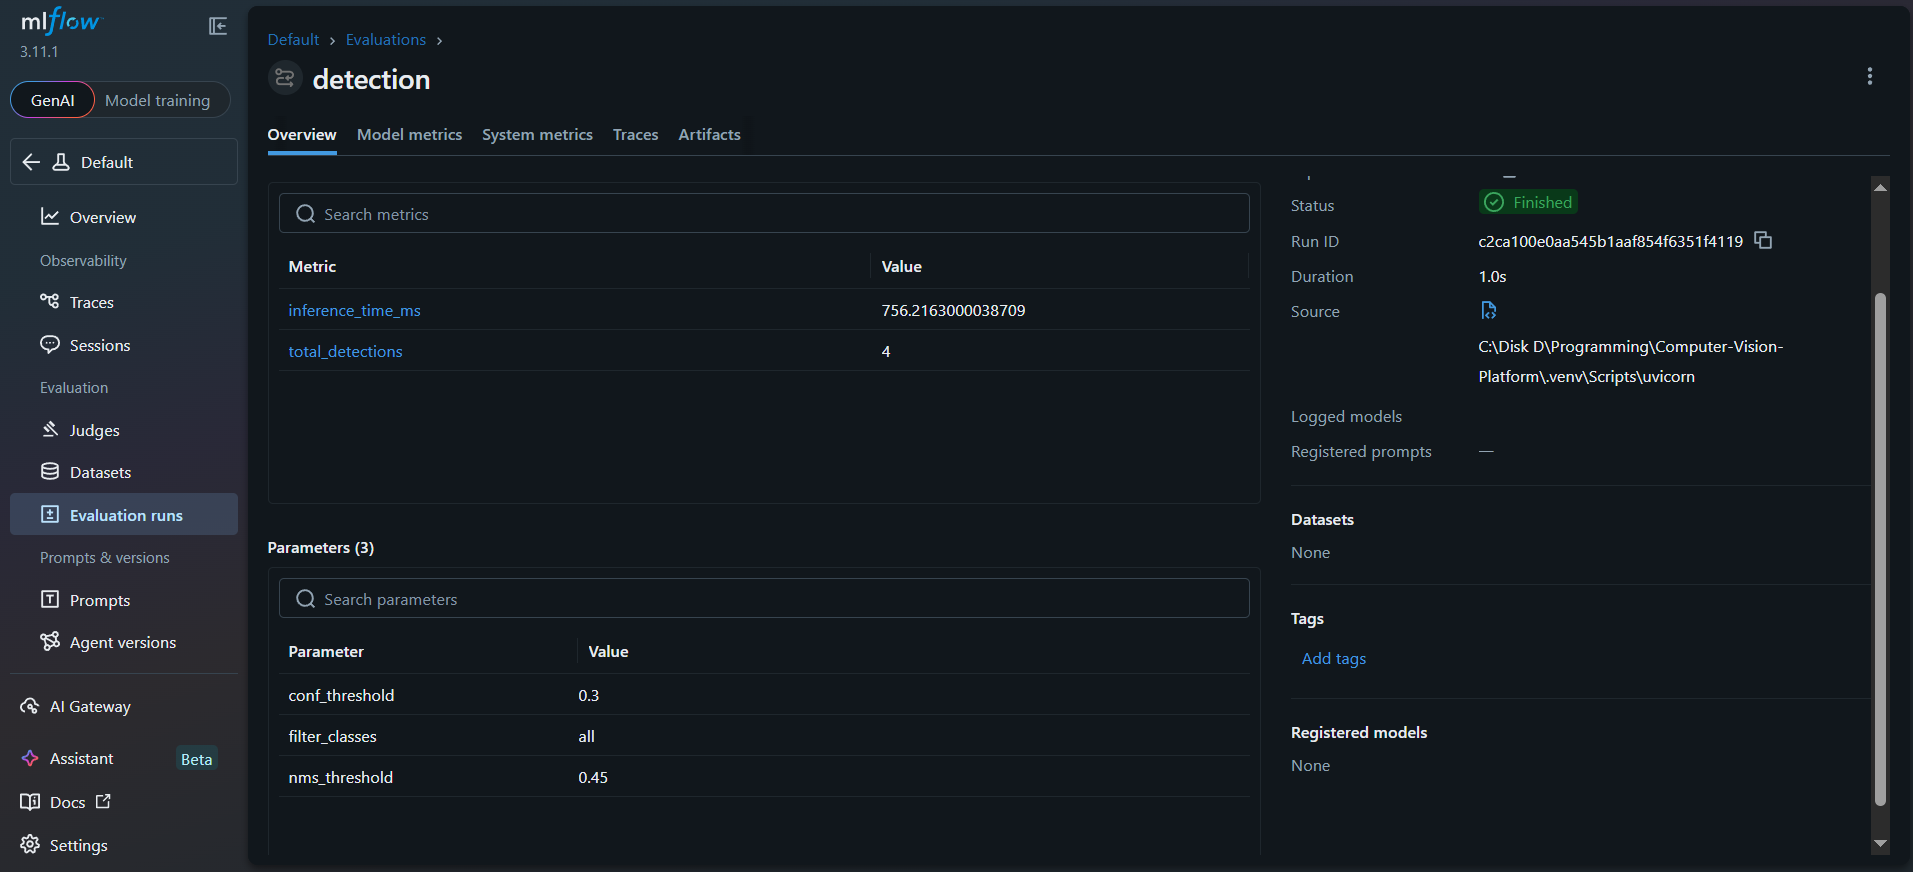
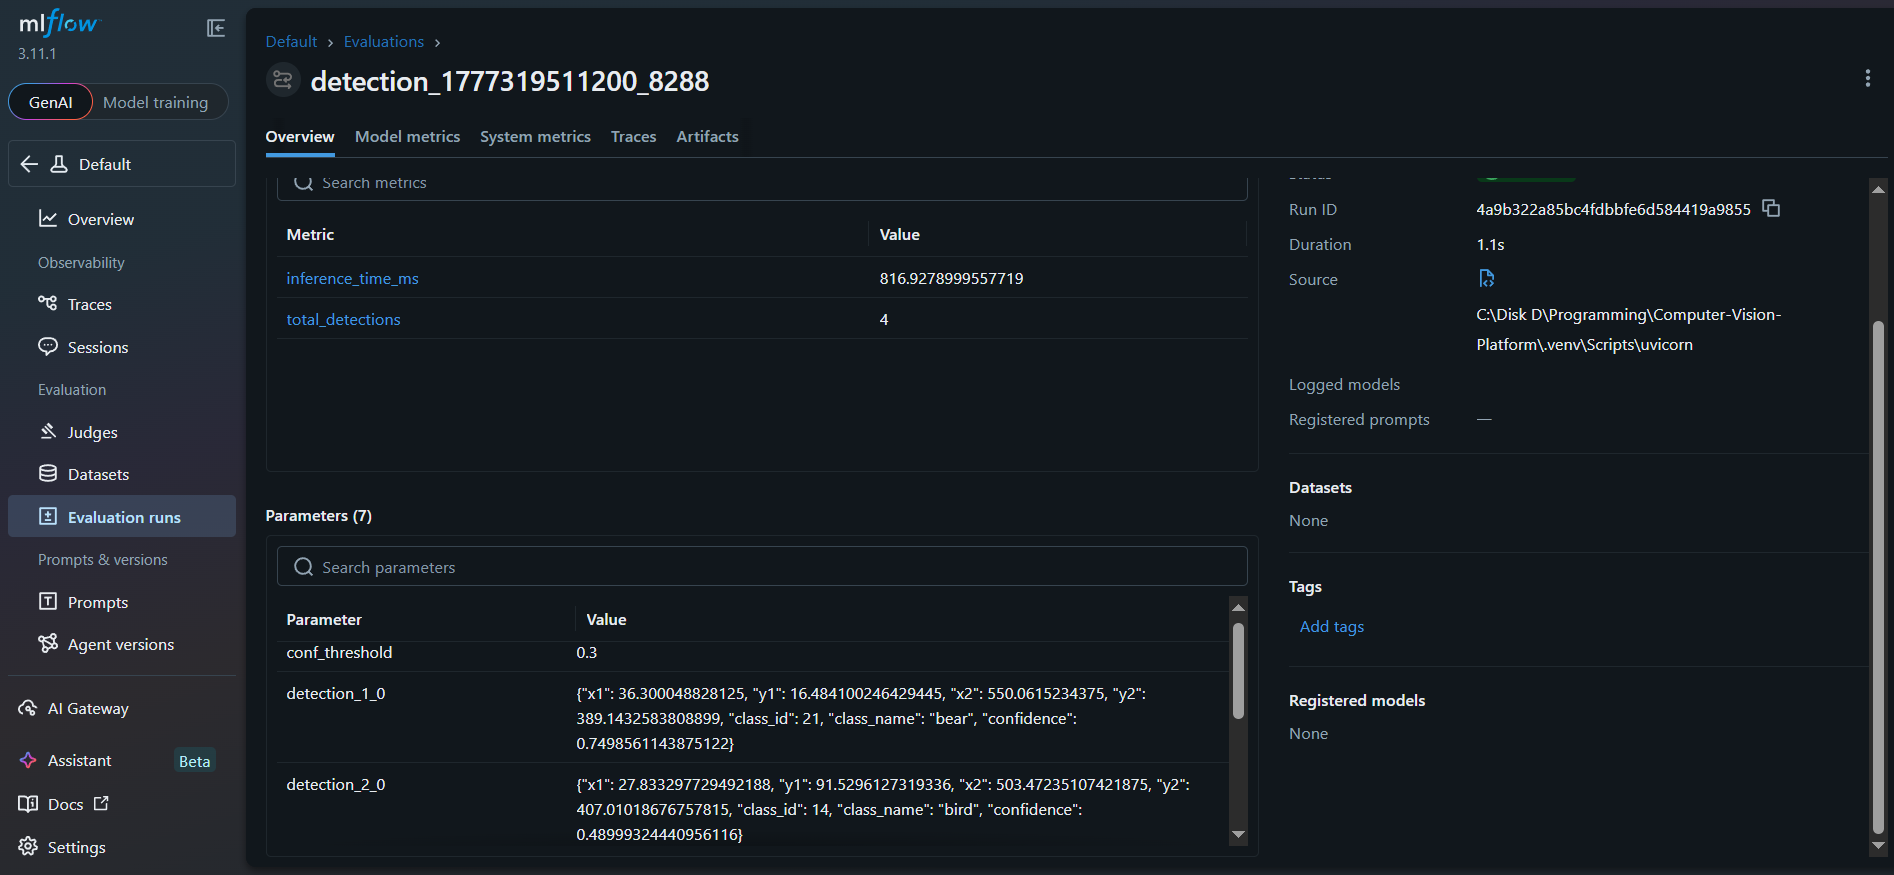
make history table containing detections bounding boxes

diff --git a/templates/history.html b/templates/history.html
@@ -11,35 +11,40 @@
         <a href="/" class="back-link">← Back to detection page</a>
         <button class="clear-btn" onclick="clearHistory()">🗑️ Clear History</button>
     </div>
-    <table>
-        <thead>
-            <tr>
-                <th>ID</th>
-                <th>Filename</th>
-                <th>Timestamp</th>
-                <th>Detections</th>
-                <th>Confidence</th>
-                <th>NMS</th>
-                <th>Filter Classes</th>
-            </tr>
-        </thead>
-        <tbody>
-            {% for record in records %}
-            <tr>
-                <td>{{ record.id }}</td>
-                <td>{{ record.filename }}</td>
-                <td>{{ record.timestamp }}</td>
-                <td>{{ record.num_detections }}</td>
-                <td>{{ record.conf_threshold }}</td>
-                <td>{{ record.nms_threshold }}</td>
-                <td>{{ record.filter_classes or 'No filtering' }}</td>
-            </tr>
-            {% endfor %}
-        </tbody>
-    </table>
-    {% if not records %}
-    <p>No detection records found.</p>
-    {% endif %}
+
+    <div class="table-container">
+        <table>
+            <thead>
+                <tr>
+                    <th>Box ID</th>
+                    <th>Filename</th>
+                    <th>Bounding Box (x1, y1, x2, y2)</th>
+                    <th>Class Name</th>
+                    <th>Confidence</th>
+                    <th>Filter Classes Applied</th>
+                </tr>
+            </thead>
+            <tbody>
+                {% for record in records %}
+                    {% if record.x1 is not none %}
+                    <tr>
+                        <td>{{ record.box_id }}</td>
+                        <td>{{ record.filename }}</td>
+                        <td>({{ "%.1f"|format(record.x1) }}, {{ "%.1f"|format(record.y1) }}, {{ "%.1f"|format(record.x2) }}, {{ "%.1f"|format(record.y2) }})</td>
+                        <td>{{ record.class_name }}</td>
+                        <td>{{ "%.2f"|format(record.confidence) }}</td>
+                        <td>{{ record.filter_classes or 'No filtering' }}</td>
+                    </tr>
+                    {% endif %}
+                {% endfor %}
+                {% if not records or records|selectattr("x1", "defined")|list|length == 0 %}
+                <tr>
+                    <td colspan="7">No detection records found.</td>
+                </tr>
+                {% endif %}
+            </tbody>
+        </table>
+    </div>
 </div>
 
 <script>

diff --git a/src/db.py b/src/db.py
@@ -23,19 +23,31 @@ def ensure_database():
 def create_table():
     conn = mysql.connector.connect(**DB_CONFIG)
     cursor = conn.cursor()
+    cursor.execute("DROP TABLE IF EXISTS detection_items")
     cursor.execute("DROP TABLE IF EXISTS detections")
     cursor.execute(
         """
         CREATE TABLE detections (
             id INT AUTO_INCREMENT PRIMARY KEY,
             filename VARCHAR(255),
-            timestamp DATETIME DEFAULT CURRENT_TIMESTAMP,
-            num_detections INT,
-            detections_json JSON,
-            conf_threshold FLOAT,
-            nms_threshold FLOAT,
             filter_classes VARCHAR(255),
             annotated_image LONGTEXT
+        )
+    """
+    )
+    cursor.execute(
+        """
+        CREATE TABLE detection_items (
+            id INT AUTO_INCREMENT PRIMARY KEY,
+            detection_id INT NOT NULL,
+            x1 FLOAT,
+            y1 FLOAT,
+            x2 FLOAT,
+            y2 FLOAT,
+            class_id INT,
+            class_name VARCHAR(255),
+            confidence FLOAT,
+            FOREIGN KEY (detection_id) REFERENCES detections(id) ON DELETE CASCADE
         )
     """
     )
@@ -46,21 +58,43 @@ def create_table():
 
 def insert_detection(
     filename: str,
-    num_detections: int,
-    detections_json: str,
-    conf_thr: float,
-    nms_thr: float,
     filter_cls: str,
-    annotated_image: str,  # base64 string
+    annotated_image: str,
+) -> int:
+    conn = mysql.connector.connect(**DB_CONFIG)
+    cursor = conn.cursor()
+    cursor.execute(
+        """
+        INSERT INTO detections (filename, filter_classes, annotated_image)
+        VALUES (%s, %s, %s)
+    """,
+        (filename, filter_cls, annotated_image),
+    )
+    detection_id = cursor.lastrowid
+    conn.commit()
+    cursor.close()
+    conn.close()
+    return detection_id
+
+
+def insert_detection_item(
+    detection_id: int,
+    x1: float,
+    y1: float,
+    x2: float,
+    y2: float,
+    class_id: int,
+    class_name: str,
+    confidence: float,
 ):
     conn = mysql.connector.connect(**DB_CONFIG)
     cursor = conn.cursor()
     cursor.execute(
         """
-        INSERT INTO detections (filename, num_detections, detections_json, conf_threshold, nms_threshold, filter_classes, annotated_image)
-        VALUES (%s, %s, %s, %s, %s, %s, %s)
+        INSERT INTO detection_items (detection_id, x1, y1, x2, y2, class_id, class_name, confidence)
+        VALUES (%s, %s, %s, %s, %s, %s, %s, %s)
     """,
-        (filename, num_detections, detections_json, conf_thr, nms_thr, filter_cls, annotated_image),
+        (detection_id, x1, y1, x2, y2, class_id, class_name, confidence),
     )
     conn.commit()
     cursor.close()
@@ -68,14 +102,16 @@ def insert_detection(
 
 
 def get_history_detections():
-    """For history page: returns all columns except annotated_image."""
     conn = mysql.connector.connect(**DB_CONFIG)
     cursor = conn.cursor(dictionary=True)
     cursor.execute(
         """
-        SELECT id, filename, timestamp, num_detections, conf_threshold, nms_threshold, filter_classes
-        FROM detections
-        ORDER BY id DESC
+        SELECT d.id AS detection_id, d.filename, d.filter_classes,
+               di.id AS box_id,
+               di.x1, di.y1, di.x2, di.y2, di.class_id, di.class_name, di.confidence
+        FROM detections d
+        LEFT JOIN detection_items di ON d.id = di.detection_id
+        ORDER BY d.id DESC, di.id DESC
     """
     )
     rows = cursor.fetchall()
@@ -104,7 +140,10 @@ def get_gallery_detections():
 def clear_all_detections():
     conn = mysql.connector.connect(**DB_CONFIG)
     cursor = conn.cursor()
+    cursor.execute("SET FOREIGN_KEY_CHECKS = 0")
+    cursor.execute("TRUNCATE TABLE detection_items")
     cursor.execute("TRUNCATE TABLE detections")
+    cursor.execute("SET FOREIGN_KEY_CHECKS = 1")
     conn.commit()
     cursor.close()
     conn.close()

diff --git a/main.py b/main.py
@@ -21,6 +21,7 @@ from src.db import (
     get_gallery_detections,
     get_history_detections,
     insert_detection,
+    insert_detection_item,
 )
 from src.image_processor import ImageProcessor
 from src.yolo11 import YOLO11
@@ -99,14 +100,15 @@ async def detect(
             temp_paths.append(tmp.name)
 
     try:
-        # Start MLflow run
-        with mlflow.start_run(run_name="detection"):
-            # Log parameters
+        # Create a unique run name for this detection request
+        run_name = f"detection_{int(time.time() * 1000)}_{hash(files[0].filename) % 10000}"
+        with mlflow.start_run(run_name=run_name):
+            # Log input parameters
             mlflow.log_params(
                 {
                     "conf_threshold": conf_threshold,
                     "nms_threshold": nms_threshold,
-                    "filter_classes": filter_classes or "all",
+                    "filter_classes": filter_classes or "No filtering",
                 }
             )
 
@@ -143,18 +145,42 @@ async def detect(
                     {"filename": file.filename, "image": image_base64, "detections": boxes_data}
                 )
 
-                # Insert into MySQL with annotated image
-                insert_detection(
+                # Insert parent record
+                detection_id = insert_detection(
                     filename=file.filename,
-                    num_detections=len(boxes_data),
-                    detections_json=json.dumps(boxes_data),
-                    conf_thr=conf_threshold,
-                    nms_thr=nms_threshold,
                     filter_cls=filter_classes or "",
                     annotated_image=image_base64,
                 )
 
+                # Insert each bounding box and log to MLflow
+                for idx, box in enumerate(boxes_data):
+                    x1, y1, x2, y2, class_id, confidence = box
+                    class_name = model.class_names.get(int(class_id), f"unknown_{int(class_id)}")
+                    insert_detection_item(
+                        detection_id=detection_id,
+                        x1=x1,
+                        y1=y1,
+                        x2=x2,
+                        y2=y2,
+                        class_id=int(class_id),
+                        class_name=class_name,
+                        confidence=float(confidence),
+                    )
+                    # Log box details as a JSON parameter
+                    box_dict = {
+                        "x1": x1,
+                        "y1": y1,
+                        "x2": x2,
+                        "y2": y2,
+                        "class_id": int(class_id),
+                        "class_name": class_name,
+                        "confidence": confidence,
+                    }
+                    mlflow.log_param(f"detection_{detection_id}_{idx}", json.dumps(box_dict))
+
+            # Log total number of detections across all uploaded images
             mlflow.log_metric("total_detections", total_detections)
+
             return JSONResponse(content={"results": results})
 
     finally:

diff --git a/README.md b/README.md
@@ -54,7 +54,15 @@ mlflow ui --backend-store-uri ./mlruns # Evaluation Runs
 ```
 
 ## Demo
-![Home page](screenshots/home.png)
-![Gallery page](screenshots/gallery.png)
-![History page](screenshots/history.png)
+### Home page
+![Home page](screenshots/home_demo.png)
+### Gallery page
+![Gallery page](screenshots/gallery_demo.png)
+### History page
+![History page](screenshots/history_demo.png)
+### MLflow Evaluation run
 ![MLflow Evaluation run](screenshots/mlflow.png)
+### Home page with lower confidence threshold and without classes filtering
+![Home page](screenshots/home_demo_no_filtering.png)
+### Home page with lower confidence threshold and with classes filtering
+![Home page](screenshots/home_demo_with_filtering.png)